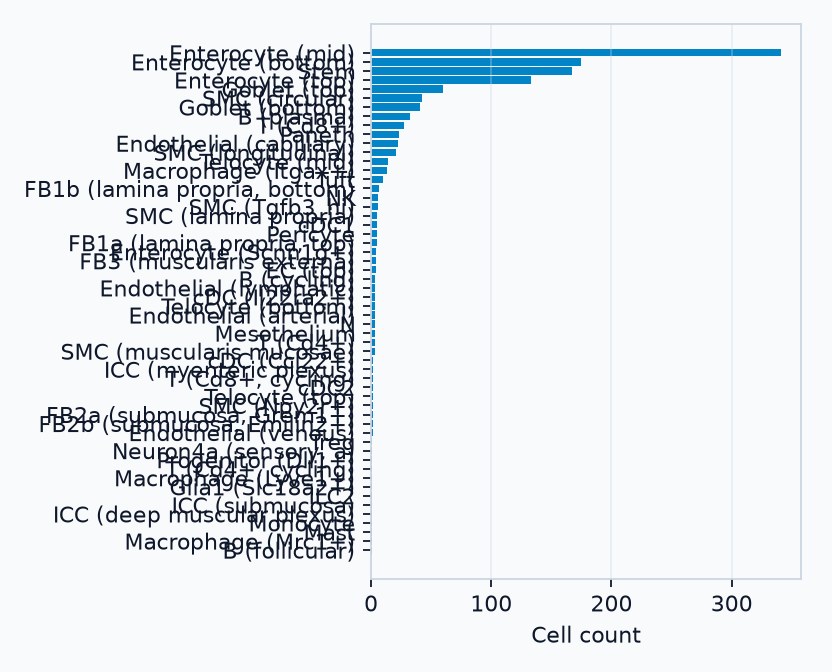
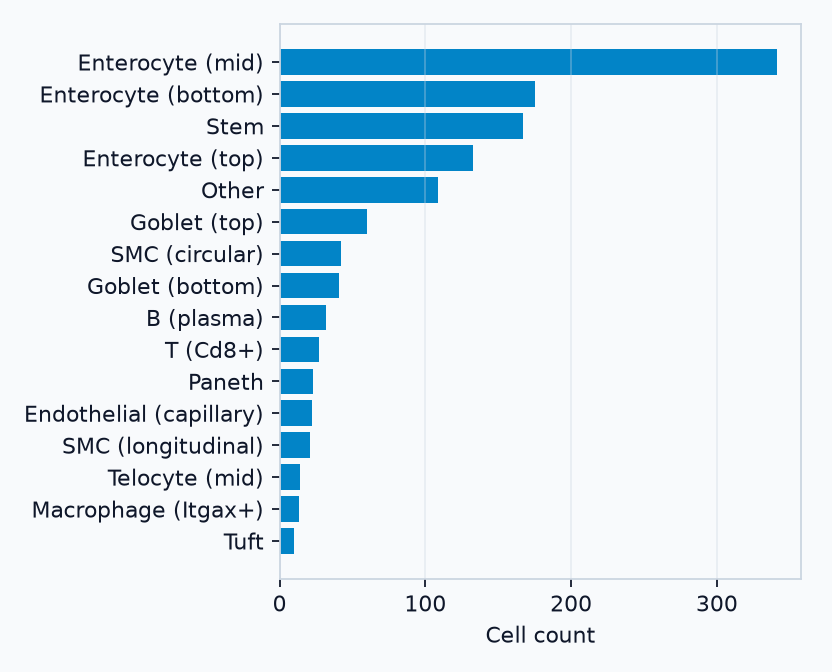
docs(measure): fold ileum composition plot to top 15 + Other
Keep composition(adata, gdf, obs_key="cell_type") as in measure docs; collapse
y-axis labels only when rendering the docs still.

diff --git a/scripts/export-ileum-measure-docs-stills.py b/scripts/export-ileum-measure-docs-stills.py
@@ -124,9 +124,20 @@ def _save_distances(path: Path, theme: dict, df: pd.DataFrame) -> None:
     plt.close(fig)
 
 
+def _composition_bar_counts(df: pd.DataFrame, *, top_n: int = 15) -> pd.Series:
+    """Top groups by count; fold the rest into Other so y labels stay readable."""
+    totals = df.groupby("group")["count"].sum().sort_values(ascending=False)
+    if len(totals) <= top_n:
+        return totals.sort_values(ascending=True)
+    head = totals.iloc[:top_n]
+    other = totals.iloc[top_n:].sum()
+    merged = pd.concat([head, pd.Series({"Other": other})])
+    return merged.sort_values(ascending=True)
+
+
 def _save_composition(path: Path, theme: dict, df: pd.DataFrame) -> None:
     _style(theme)
-    counts = df.groupby("group")["count"].sum().sort_values(ascending=True)
+    counts = _composition_bar_counts(df)
     fig, ax = plt.subplots(figsize=(5.2, 4.2), dpi=160)
     ax.barh(counts.index.astype(str), counts.values, color=theme["bar"])
     ax.set_xlabel("Cell count")
